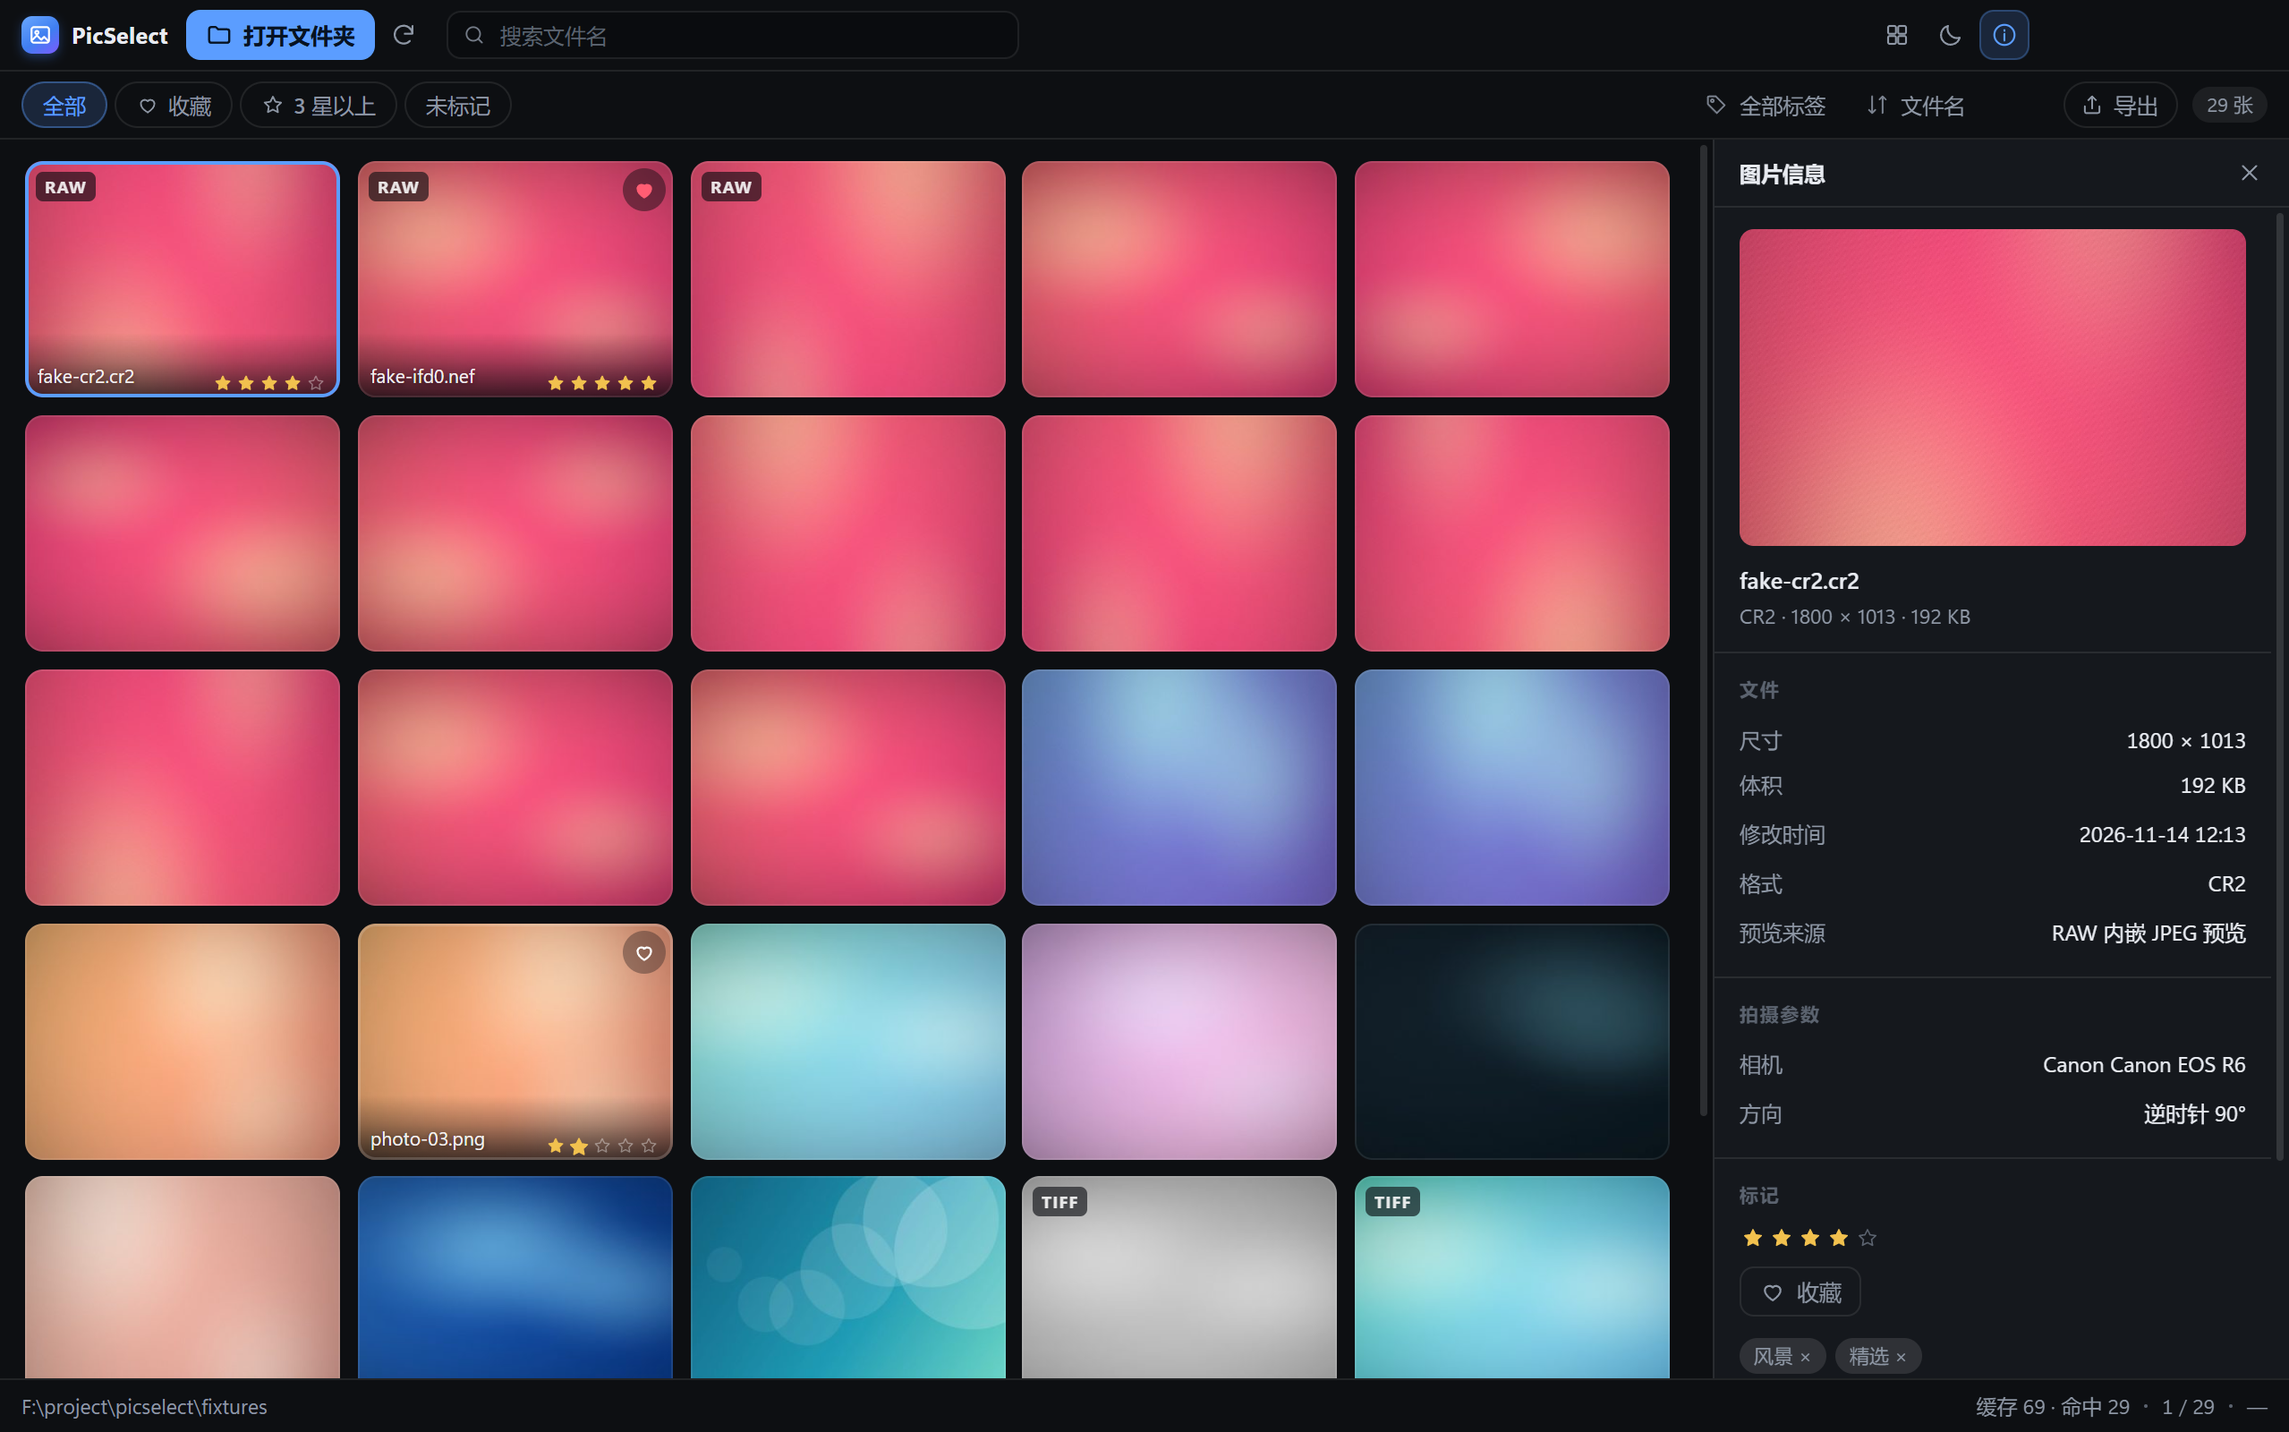
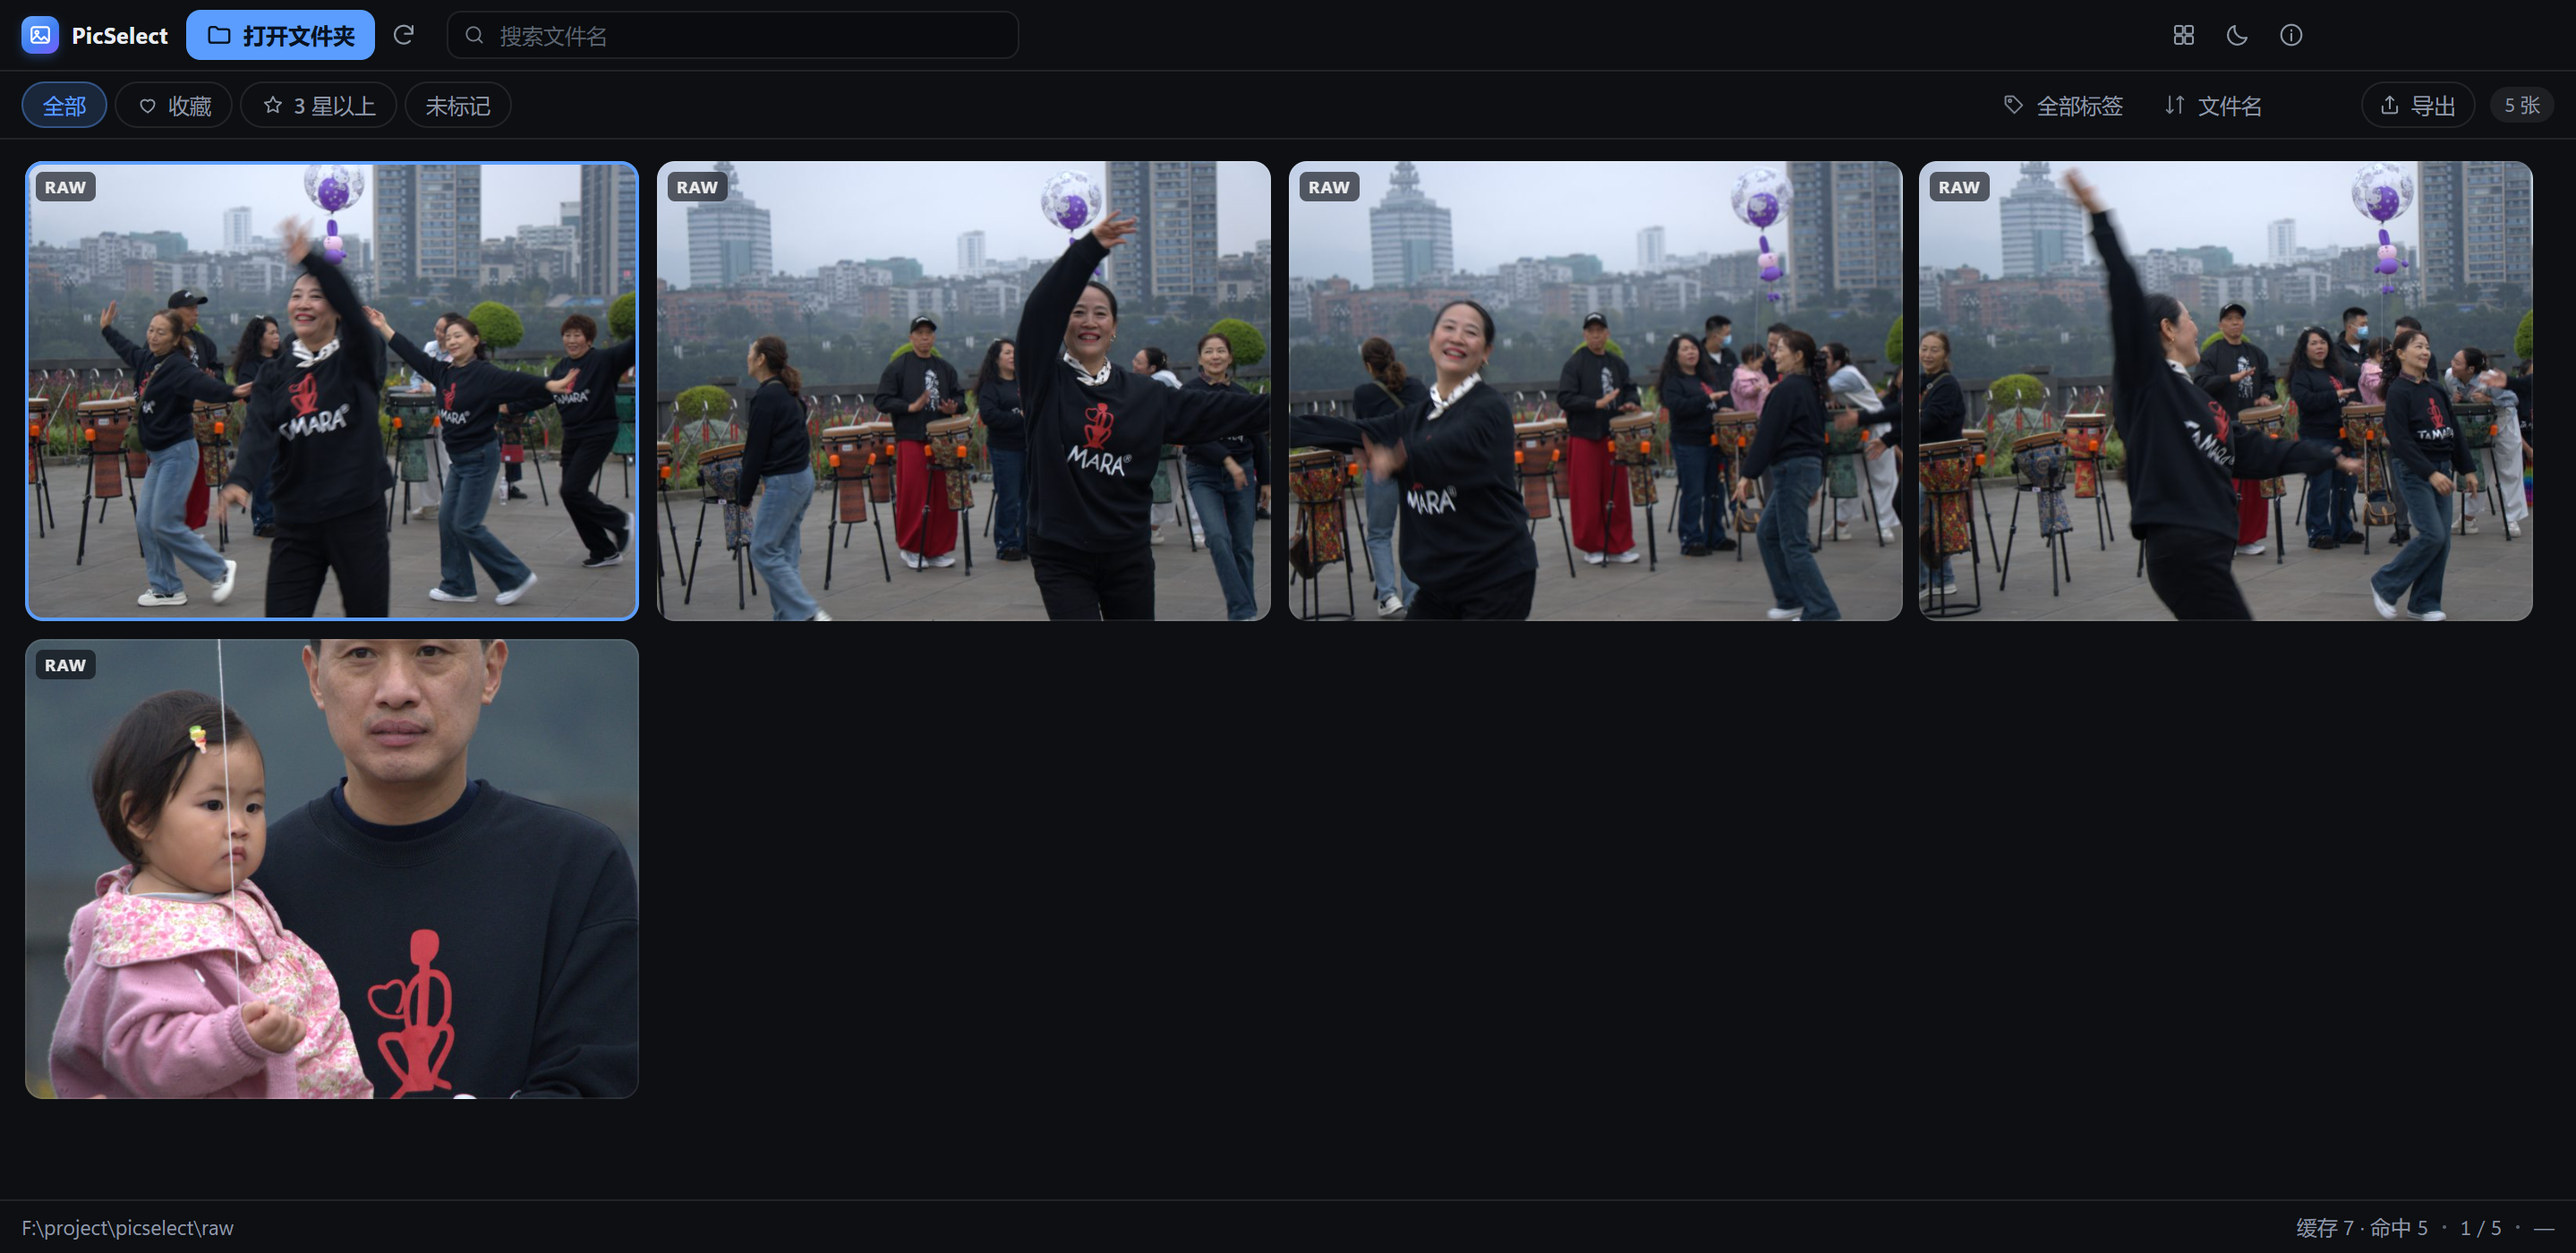
docs: 更新 RAW 章节与截图，版本号 1.2.0
- RAW 格式行与策略章节重写为「渲染进程 LibRaw 解码」，列出解码参数
  与取舍原因（为什么只能在渲染进程、为什么用 halfSize）
- 依赖说明从「零运行时依赖」改为 electron + libraw-wasm（约 2MB）
- 数据存储表拆出 RAW 解码缓存（IndexedDB）与内嵌预览兜底缓存
- 已知限制去掉「RAW 只看预览」，改为说明中性渲染与首帧等待
- 测试章节补 RAW 两层测法，以及用 CDP 验证打包产物的做法
- 截图改用 raw/ 里的 5 张真实 ARW（缩略图最大档），信息面板可见
  「尺寸 6192×4128 / 解码预览 2048×1368 / RAW 传感器数据解码」
- screenshot.js 增加 --tile / --info / --no-info，便于复现固定版式

diff --git a/README.md b/README.md
@@ -1,8 +1,8 @@
 # PicSelect
 
-轻量、快速的本地照片查看与标记工具。单目录浏览 + 缩略图预加载 + 星级/收藏/标签，支持 JPEG / PNG / GIF / WebP / BMP / AVIF / SVG / TIFF，以及索尼 ARW、佳能 CR2/CR3、尼康 NEF 等 20 余种 RAW 格式。
+轻量、快速的本地照片查看与标记工具。单目录浏览 + 缩略图预加载 + 星级/收藏/标签，支持 JPEG / PNG / GIF / WebP / BMP / AVIF / SVG / TIFF，以及索尼 ARW、佳能 CR2/CR3、尼康 NEF 等 20 余种 RAW 格式——RAW 是**真解码传感器数据**（LibRaw/WASM），不是拿相机内嵌的 JPEG 凑数。
 
-- 零 npm 运行时依赖：只依赖 Electron 自身，无打包构建、无前端框架，改代码即时生效。
+- 运行时只有两个包：Electron 本体 + `libraw-wasm`（约 2MB 的 WASM）。无打包构建、无前端框架，改代码即时生效。
 - 界面为原生 ES Module + CSS，深/浅色双主题，窗口宽度 720px 至全屏自适应。
 
 ![网格视图](docs/screenshot-grid.png)
@@ -12,7 +12,7 @@
 ## 快速开始
 
 ```bash
-npm install     # 只装 electron 一个包
+npm install     # 装 electron 与 libraw-wasm
 npm start
 ```
 
@@ -114,15 +114,37 @@ npm run dist    # 出安装包 + 便携版（首次约 2 分钟，需下载 NSIS
 | 常见位图 | `.jpg .jpeg .jpe .jfif .png .apng .gif .webp .bmp .avif .ico` | Chromium 原生解码，`img-src` 直出 |
 | 矢量 | `.svg` | 原生渲染，缩略图另存为栅格缓存 |
 | TIFF | `.tif .tiff` | 主进程纯 JS 解码（无压缩 / LZW / Deflate / PackBits，含 predictor、16bit、CMYK、调色板），转 PNG |
-| RAW | `.arw .srf .sr2 .cr2 .cr3 .crw .nef .nrw .dng .orf .rw2 .raf .pef .srw .raw .rwl .x3f .3fr .erf .mrw` | 提取文件内嵌 JPEG 预览，不做去马赛克解码 |
+| RAW | `.arw .srf .sr2 .cr2 .cr3 .crw .nef .nrw .dng .orf .rw2 .raf .pef .srw .raw .rwl .x3f .3fr .erf .mrw` | 渲染进程用 LibRaw(WASM) 解码传感器数据，转 JPEG；失败才回退内嵌预览 |
 
-RAW 的处理策略是「找现成的图」而不是算出来：
+### RAW 是解出来的，不是相机里那张 JPEG
 
-1. 解析 TIFF/IFD 结构，从 SubIFD、ExifIFD、IFD0、IFD1 定向抽取预览条目；
-2. 失败则全文件扫描 JPEG 标记（`FFD8 ... FFD9`），用「体积/像素比」合理性检验剔除 256×256 之类的缩略图假阳性；
-3. 仍失败则退回系统缩略图接口。
+早期版本直接抽文件里内嵌的那张 JPEG 预览给用户看。这样做很快，但看到的是相机的机内处理结果（Picture Style、对比度、锐化、降噪全都烘焙好了），并不是 RAW 数据本身。现在改成真正解码传感器数据。
 
-缩略图请求（`?w=440`）会挑选 ≤2048 宽的预览，避免为了一个 168px 瓦片去解码 24MP 全图；大图请求才用全分辨率预览。提取结果按 SHA-1 缓存到磁盘，二次打开为毫秒级。
+链路是这样的：
+
+```
+主进程  /bytes/<base64url>   → 按需流式吐出 .ARW 原始字节
+        /vendor/libraw/*    → 供出 libraw-wasm 的 ESM / worker / .wasm
+渲染进程 raw-develop.js      → libraw.open(bytes) → imageData() → RGB → JPEG
+```
+
+几个关键参数：
+
+| 参数 | 取值 | 原因 |
+| --- | --- | --- |
+| `halfSize` | 目标宽 ≤2048 时为 `true` | 半尺寸解码快约 4 倍。6000px 级传感器半尺寸约 3000px，仍高于输出宽，等于白拿速度 |
+| `useCameraWb` | `true` | 用机内白平衡，避免偏色 |
+| `outputBps` / `outputColor` | `8` / `1` | 8 位、sRGB，直接喂给 JPEG 编码器 |
+| `userQual` | `3` | AHD 去马赛克，质量和速度的平衡点 |
+| `userFlip` | `-1` | 用 RAW 自带的方向信息，不额外翻转 |
+
+`LibRaw` 是编译成 WASM 的浏览器形态，依赖 Web Worker 和 `fetch`，所以只能跑在渲染进程——放在主进程会直接报 `self is not defined`。代价是解码在主线程旁边跑，收益是不用为它装任何原生模块，打包体积也只多 2MB 左右。
+
+解码是**单实例串行**的（libraw-wasm 内部状态不可重入），靠一个 Promise 队列排队。结果按 `版本|路径|mtime|目标宽` 缓存进 IndexedDB，再用一个 24 条的 objectURL LRU 兜住频繁来回翻页。
+
+性能实测（索尼 A6700，33MB ARW）：半尺寸 3120×2084 约 670ms，缩略图（880 宽）再快一些；命中缓存后是毫秒级。所以查看器会**先贴缩略图垫底、解码完再替换**，翻页不会有空白等待。
+
+解不出来的文件（异常容器、损坏文件）会被记下来，不再反复重试，并在缩略图与查看器里回退到老路径：IFD 定向抽取 → 全文件扫描 JPEG 标记 → 系统缩略图接口。这条兜底链完整保留在 `src/main/raw/`，也是 fixture 里那几个「假 RAW」能正常显示的原因。
 
 ## 快捷键
 
@@ -150,7 +172,8 @@ RAW 的处理策略是「找现成的图」而不是算出来：
 | 内容 | 位置 |
 | --- | --- |
 | 标记与偏好 | `%APPDATA%\PicSelect\library.json` |
-| RAW 预览缓存 | `%APPDATA%\PicSelect\cache\raw\<sha1>.jpg`（上限 500MB，自动清理最旧） |
+| RAW 解码缓存 | IndexedDB（渲染进程，键含路径/mtime/目标宽） |
+| RAW 内嵌预览兜底缓存 | `%APPDATA%\PicSelect\cache\raw\<sha1>.jpg`（上限 500MB，自动清理最旧） |
 | 缩略图缓存 | IndexedDB（渲染进程，库名 `picselect`） |
 
 便携版（`PicSelect-*-portable.exe`）把上面三项整体放在 exe 同级的 `PicSelectData\` 下，不再写入 `%APPDATA%`。
@@ -182,7 +205,7 @@ RAW 的处理策略是「找现成的图」而不是算出来：
 src/main/            主进程
   main.js            启动、命令行参数、单实例
   window.js          无边框窗口 + 标题栏叠加
-  protocol.js        app:// 协议（页面、样式、图片、RAW/TIFF 转码）
+  protocol.js        app:// 协议（页面、样式、图片字节、RAW/TIFF 转码、libraw 静态资源）
   ipc.js             全部 IPC 通道
   library.js         目录扫描（非递归，中文本地化自然排序）
   store.js           library.json 原子持久化
@@ -190,10 +213,11 @@ src/main/            主进程
   external.js        Photoshop / Lightroom 探测与调用
   exif/              TIFF/IFD 解析、EXIF 提取、方向处理、尺寸嗅探
   tiff/              纯 JS TIFF 解码器 + PNG 编码器（LZW/PackBits/Deflate）
-  raw/               RAW 内嵌预览提取（IFD → 全文件扫描 → 系统兜底）
+  raw/               RAW 内嵌预览兜底链（IFD → 全文件扫描 → 系统兜底）
 src/preload/         contextBridge 白名单
-src/renderer/        index.html、styles/、js/（state / grid / viewer / infolist / preload）
-scripts/             测试素材生成、解析器断言、UI 端到端测试、截图工具
+src/renderer/        index.html、styles/、js/
+  js/raw-develop.js  LibRaw(WASM) 传感器解码，带缓存与串行队列
+scripts/             测试素材生成、解析器断言、UI 端到端测试、截图、CDP 探针
 fixtures/            程序生成的测试图片（29 个）
 raw/                 放真实 RAW 样片的地方（不纳入版本控制）
 ```
@@ -213,20 +237,29 @@ Chromium 默认按 EXIF 的 `Orientation` 自动旋转（`image-orientation: fro
 ```bash
 npm run fixtures      # 生成 29 个测试素材（含 8 种方向、6 种 TIFF 编码、3 种 RAW 布局）
 npm test              # 解析器 33 项 + 导出 12 项 + 外部程序探测 8 项，纯 Node 运行
-npm run test:ui       # 端到端交互：26 项（含 IPC 导出、按钮渲染、持久化、缓存）
+npm run test:ui       # 端到端交互：41 项（含 IPC 导出、按钮渲染、持久化、缓存、RAW 解码）
 npm run shot -- --scene grid --theme dark --out shots/grid.png
 ```
 
-测试里有两类值得注意的技巧：
+测试里有三类值得注意的技巧：
 
 - **导出测试**直接把 fixtures 目录当图库、导出到临时目录，断言文件数、CSV 的 BOM 与列内容、同名冲突改名、目录外路径被拒绝——全在纯 Node 下跑，不用起窗口。
 - **外部程序测试**用临时目录伪造出 `Adobe/Adobe Photoshop 2026/Photoshop.exe` 这种结构，验证多版本选新、不会误认 Photoshop Elements、手动路径失效后回落。所以即使没装 Adobe 也能测。
+- **RAW 测试**分两层：`app://` 的 vendor 路由、wasm 的 MIME、越界路径被拒绝，这几项任何环境都能断言；真实解码则需要 `raw/` 里有样片（没有就打印跳过、不算失败），断言解出的像素尺寸、JPEG 头、走的是解码分支而非内嵌预览、以及二次取图命中缓存。`raw/` 不进版本控制，所以这段测试跟着本机素材走。
+
+打包产物另有一道验证：exe 带 `--remote-debugging-port=9222` 启动，用 `scripts/cdp-eval.js` 连上去在页面里执行代码。这能证明 wasm 真的从 `resources/app/node_modules` 里被 `app://` 供出来了——`asar: false` 加自定义协议这套组合，恰恰是最容易在打包后失效、而开发模式下永远测不出来的部分。
+
+```bash
+node scripts/cdp-eval.js "window.__picselect.state.items.length"
+node scripts/peek-preview.js raw/DSC01839.ARW shots/embedded.jpg   # 抽相机内嵌预览做对照
+```
 
 ## 已知限制
 
 - **HEIC/HEIF 不支持**：Chromium 无 HEVC 解码能力，纯 JS 实现不划算，扫描时直接跳过并在状态栏提示。
-- **RAW 只看预览**：显示的是相机写入的内嵌 JPEG（通常是全分辨率、已应用机内风格），不是原始传感器数据的解码结果。没有内嵌预览的机型（例如部分 CR3）会退化为系统缩略图。
-- **CR3 是 ISO BMFF 容器**：不走 TIFF/IFD 路径，只能靠全文件扫描或系统兜底，成功率取决于文件是否有内嵌 JPEG。
+- **RAW 是中性解码**：显示的是传感器数据经 LibRaw 中性渲染的结果，没有相机机内风格（对比度、锐化、降噪），所以看起来会比相机直出的 JPEG「平」一些——这正是看 RAW 的意义。LibRaw 不认识的机型会回退到内嵌预览。
+- **RAW 首帧要等**：一张没缓存的 ARW 大图约 1~1.5 秒，期间先显示缩略图。缓存后会立刻出来。
+- **CR3 是 ISO BMFF 容器**：不走 TIFF/IFD 路径，解码靠 LibRaw，兜底靠全文件扫描或系统缩略图。
 - **大尺寸 TIFF**：分块（Tiled）TIFF 暂不支持，会降级为系统缩略图；超过 64MB 的文件只读取头部提取 EXIF。
 - **单目录、非递归**：不做目录树，一次只浏览一个文件夹。需要批量操作请配合系统文件管理器。
 - **导出是复制不是移动**：原文件始终不动。导出目录里同名文件会加 `(1)` 后缀，不会覆盖已有文件。
